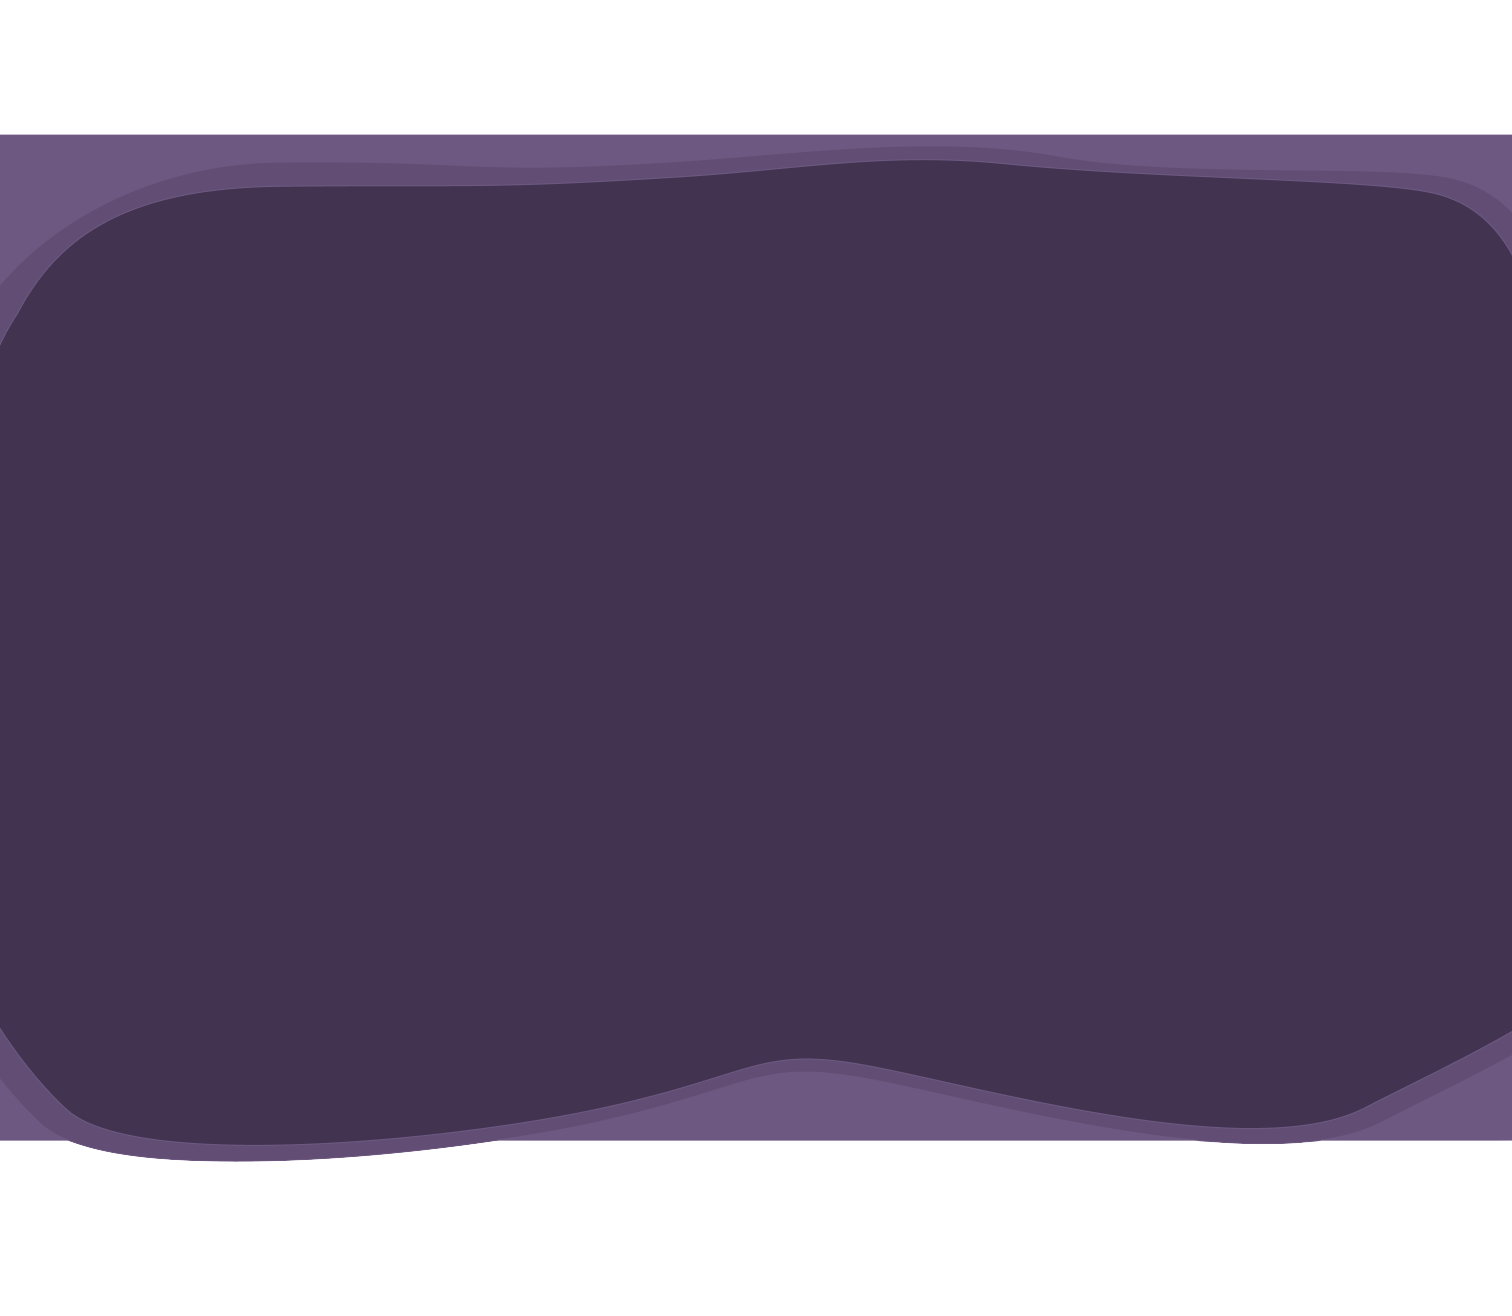
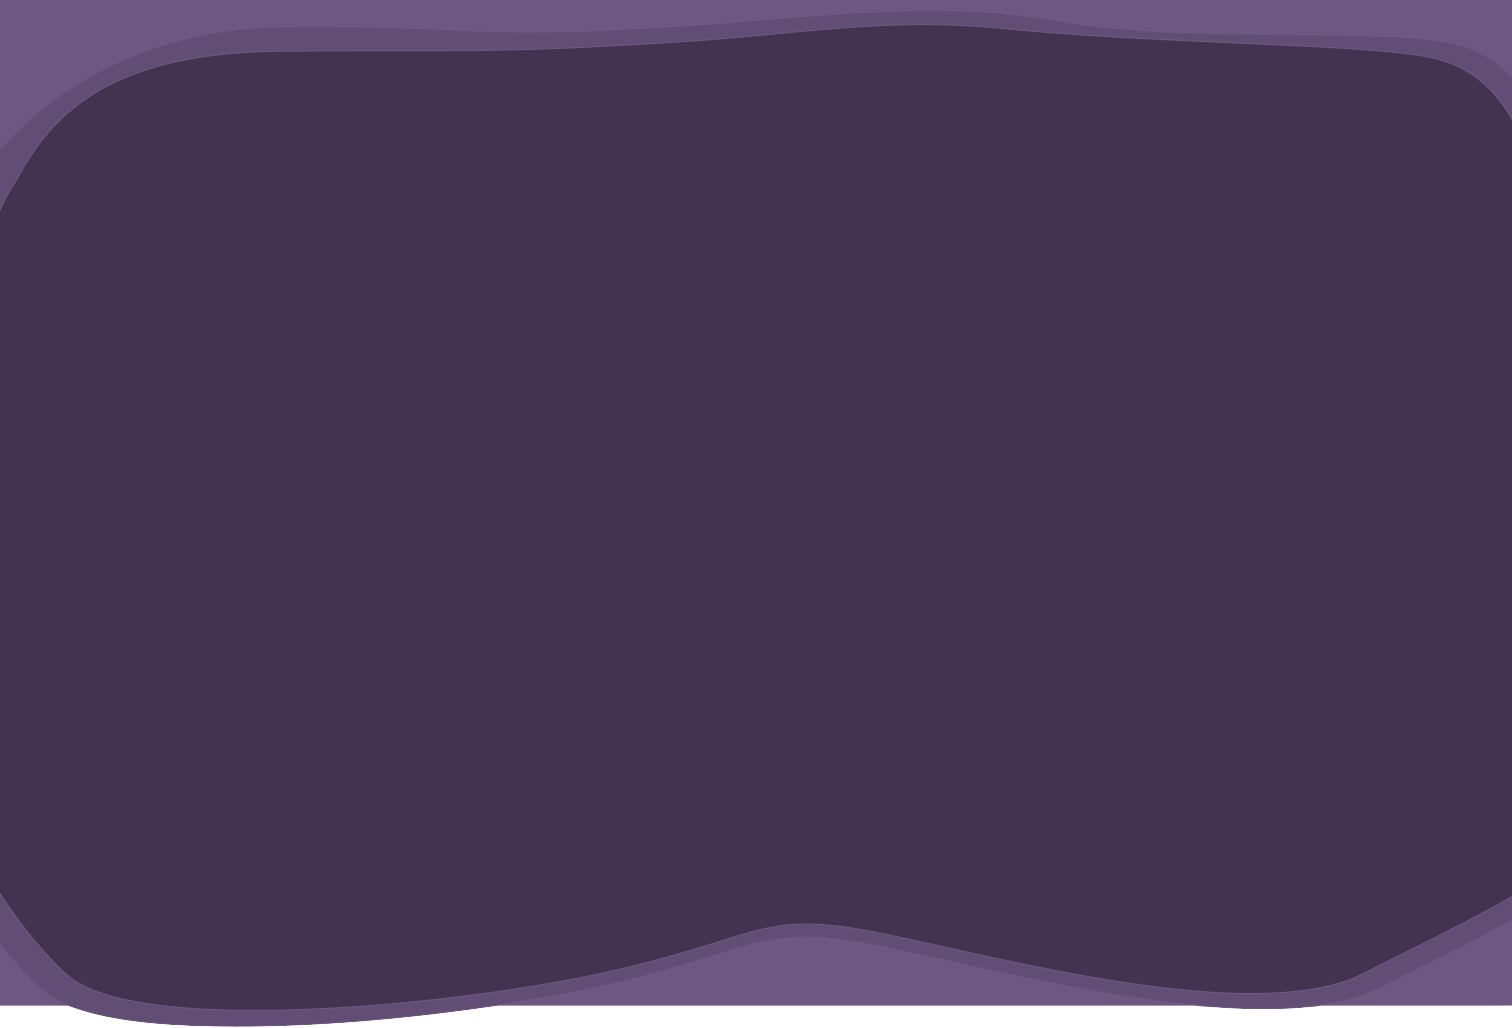
add section background

Changed region(s): [[0.0, 0.7782, 1.0, 1.0], [0.0, 0.0, 1.0, 0.249]]

diff --git a/apps/main/src/app/(landing)/Sections/Calendar/Calendar.tsx b/apps/main/src/app/(landing)/Sections/Calendar/Calendar.tsx
@@ -1,7 +1,7 @@
 "use client";
 
 // Imports
-import React, { useState } from "react";
+import React from "react";
 
 // Components
 import { Section, TitleBox } from "@repo/ui";
@@ -24,8 +24,8 @@ export function CalendarEvent({
   return (
     <div className="flex justify-center items-center">
       <TitleBox
-        topColor={"[#EFAB57]"}
-        bottomColor={"white"}
+        topColor="orange"
+        bottomColor="white"
         topComponent={
           <div className="p-1">
             <p className="text-center text-white text-xl mb-[-4px]">{month}</p>
@@ -80,47 +80,15 @@ export function CalendarEvents({
 }
 
 export function CalendarSection(): React.ReactNode {
-  const [currentPage, setCurrentPage] = useState(1);
-
-  const handleNext = () => {
-    setCurrentPage((prevPage) => prevPage + 1);
-  };
-
-  const handlePrev = () => {
-    if (currentPage > 1) {
-      setCurrentPage((prevPage) => prevPage - 1);
-    }
-  };
-
   return (
     <div className="flex flex-col items-center justify-center">
-      <h1 className="text-3xl font-bold text-center text-[#B2A0C2] p-8">
+      <h1 className="text-3xl font-bold text-center text-[#B2A0C2] p-8 font-GT-Walsheim-Bold mb-3">
         EVENTS CALENDAR
       </h1>
-      <CalendarEvents calendarEvents={events} page={currentPage} />
-      <div className="absolute top-1/2 left-4 transform -translate-y-1/2 z-2">
-        <button
-          onClick={handlePrev}
-          className="bg-gray-800 text-white p-4 rounded-full border border-black"
-        >
-          Prev
-        </button>
-      </div>
-
-      <div className="absolute top-1/2 right-4 transform -translate-y-1/2 z-2">
-        <button
-          onClick={handleNext}
-          disabled={currentPage * 6 >= events.length}
-          className="bg-gray-800 text-white p-4 rounded-full border border-black"
-        >
-          Next
-        </button>
-      </div>
+      <CalendarEvents calendarEvents={events} page={1} />
     </div>
   );
 }
-
-// const background = <div className="w-full h-full bg-[#423350]" />;
 
 const events: CalendarEventProps[] = [
   {

diff --git a/apps/main/src/app/(landing)/page.tsx b/apps/main/src/app/(landing)/page.tsx
@@ -1,5 +1,5 @@
 import { Section } from "@repo/ui";
-import { Stats, Values, FAQSection, Landing, Keynote } from "./Sections";
+import { Stats, Values, FAQSection, Landing, Keynote, Calendar } from "./Sections";
 import { Footer, NavBar } from "../lib/Components";
 import React from "react";
 
@@ -9,6 +9,7 @@ export default function Page(): JSX.Element {
       <NavBar />
       <Landing />
       <Stats />
+      <Calendar />
       <FAQSection />
       <Section
         name="about"

diff --git a/packages/ui/src/TitleBox.tsx b/packages/ui/src/TitleBox.tsx
@@ -15,12 +15,12 @@ type TitleBoxProps = {
 const TitleBox = ({
   hasLine = false,
   lineColor = "black",
-  topColor = "[#EFAB57]",
+  topColor = "orange",
   bottomColor = "white",
   topComponent,
   bottomComponent,
-  width = "w-[15rem]",
-  height = "h-[15rem]",
+  width = "w-60",
+  height = "h-60",
 }: TitleBoxProps): React.ReactElement => {
   return (
     <div className={`rounded-lg ${width} ${height} flex flex-col`}>

diff --git a/apps/main/src/app/(landing)/Sections/Calendar/CalendarBackground.tsx b/apps/main/src/app/(landing)/Sections/Calendar/CalendarBackground.tsx
@@ -1,10 +1,10 @@
 import React from "react";
-// import Image from "next/image";
+import Image from "next/image";
 
 const CalendarBackground = () => {
   return (
     <div className="w-full h-full overflow-hidden">
-      {/* <Image alt="CalendarBackground" src="/calendar_background.png" fill /> */}
+      <Image alt="CalendarBackground" src="/calendar_background.png" fill />
     </div>
   );
 };
